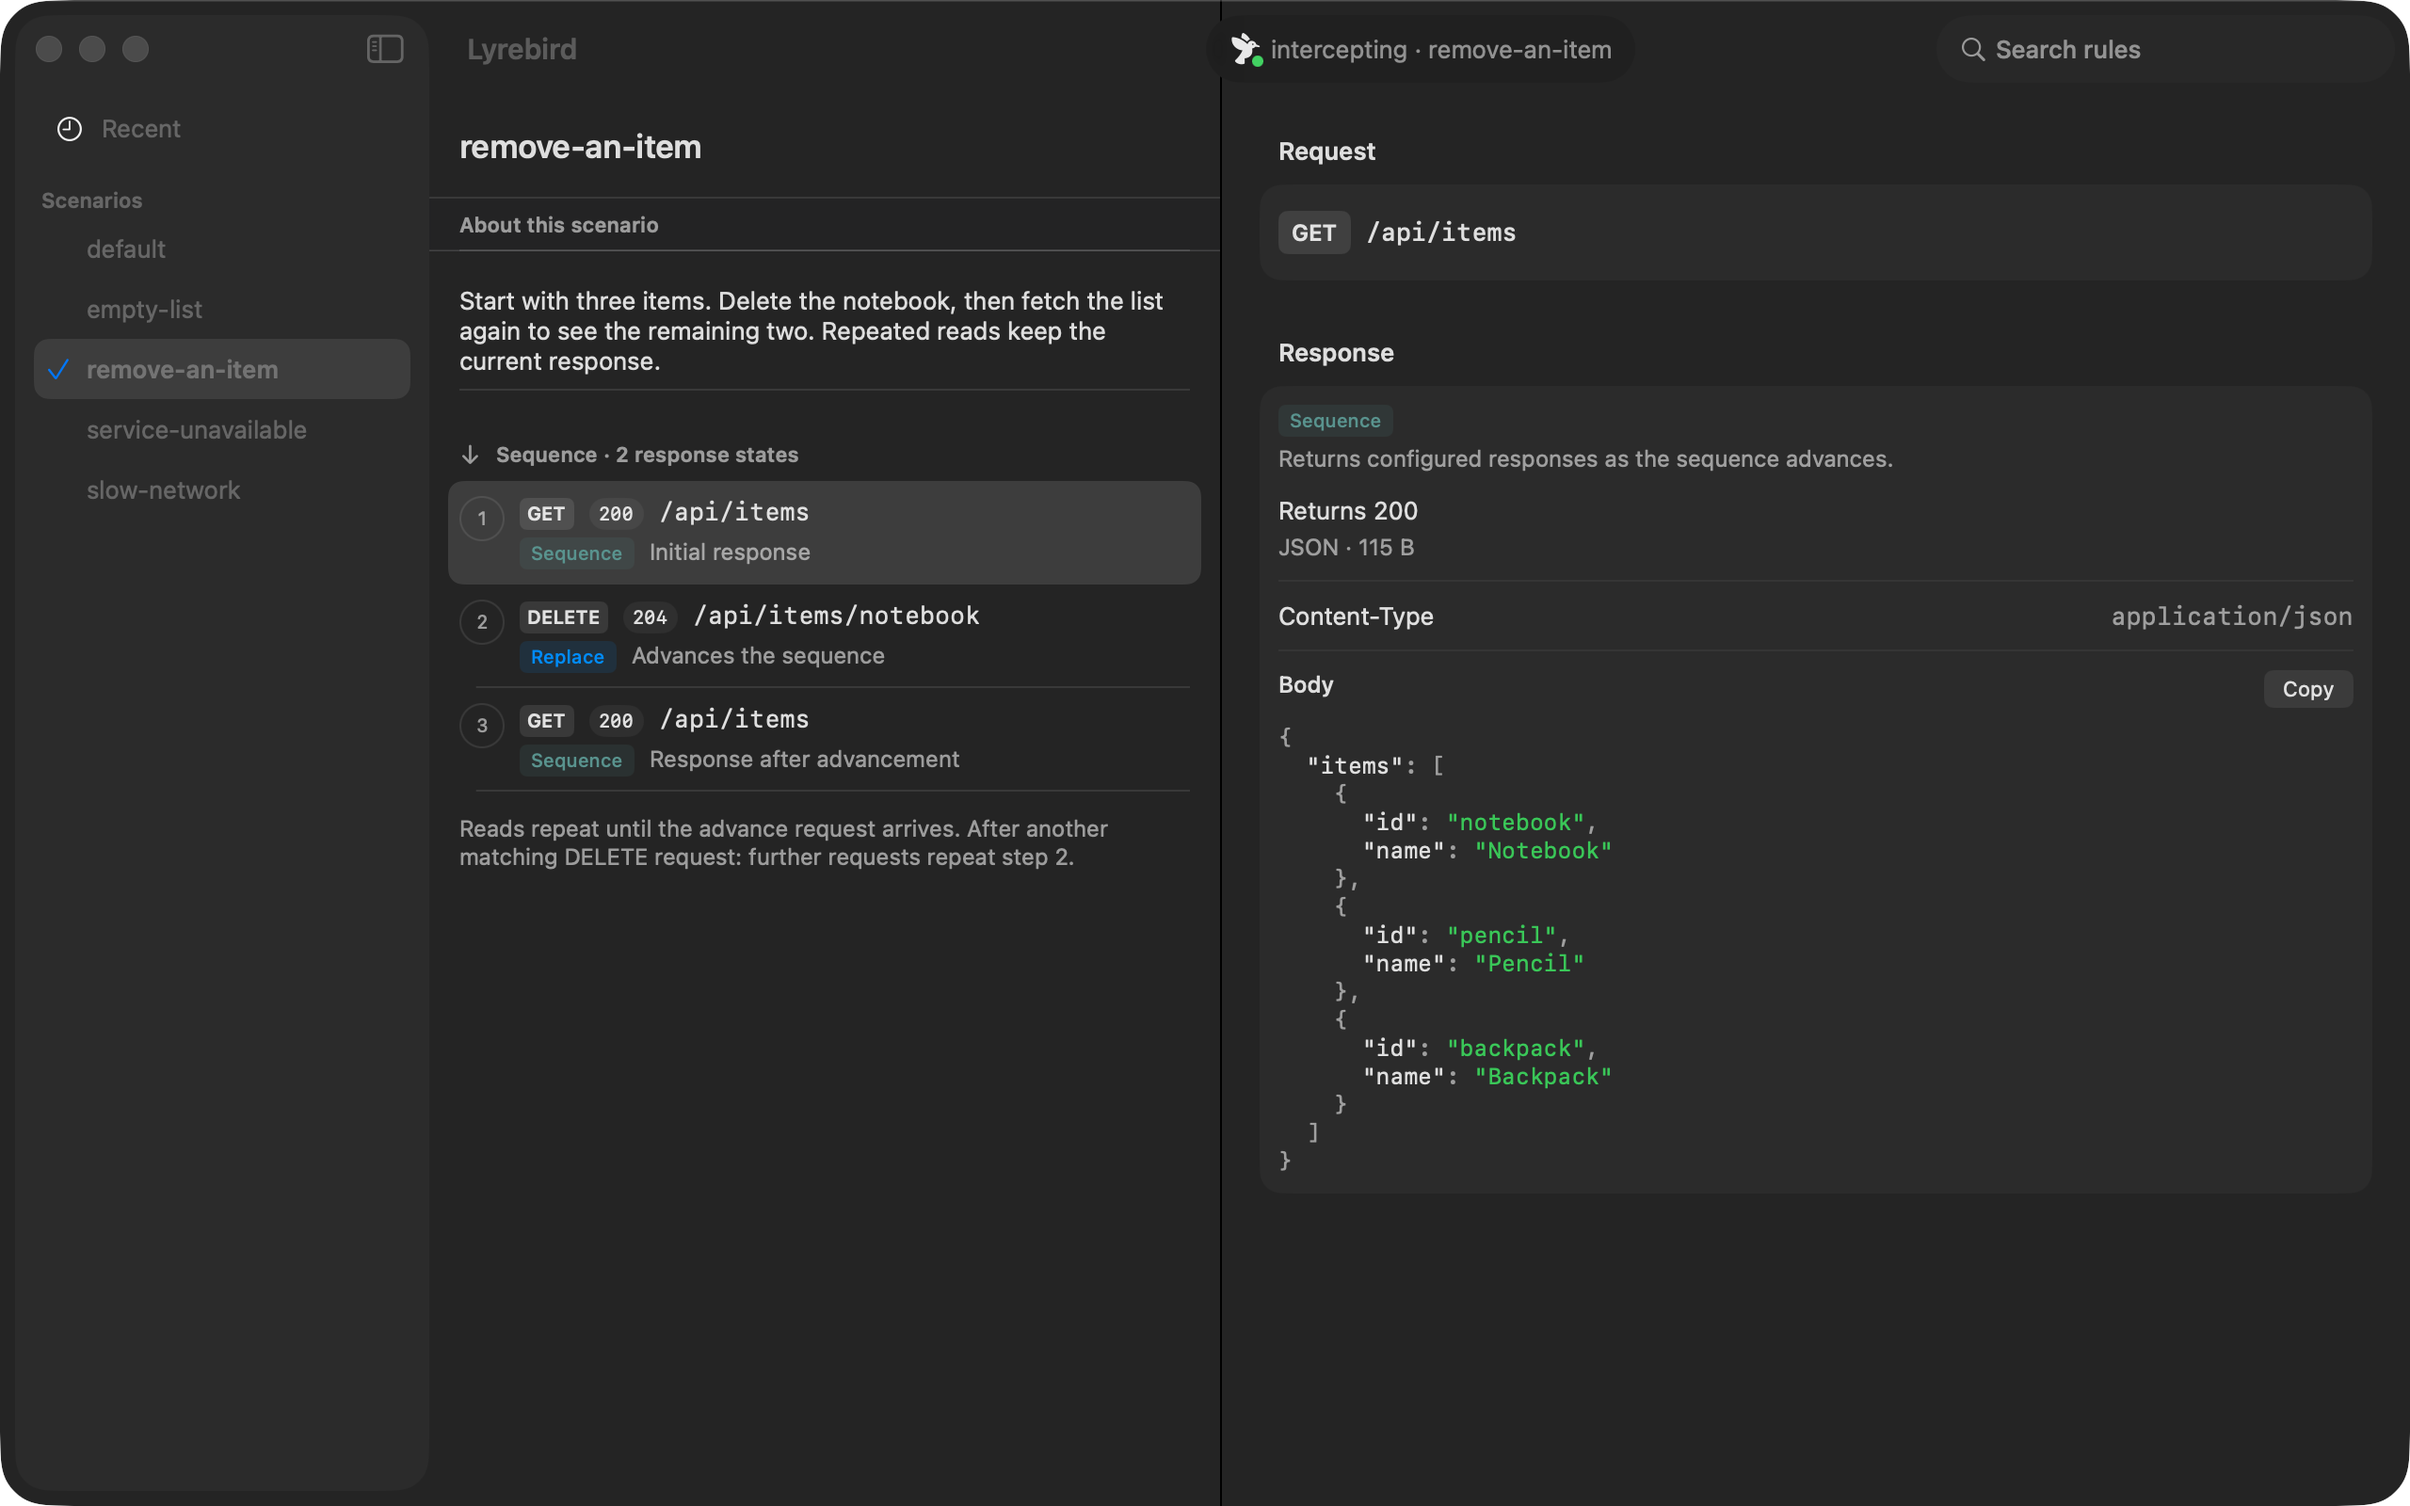
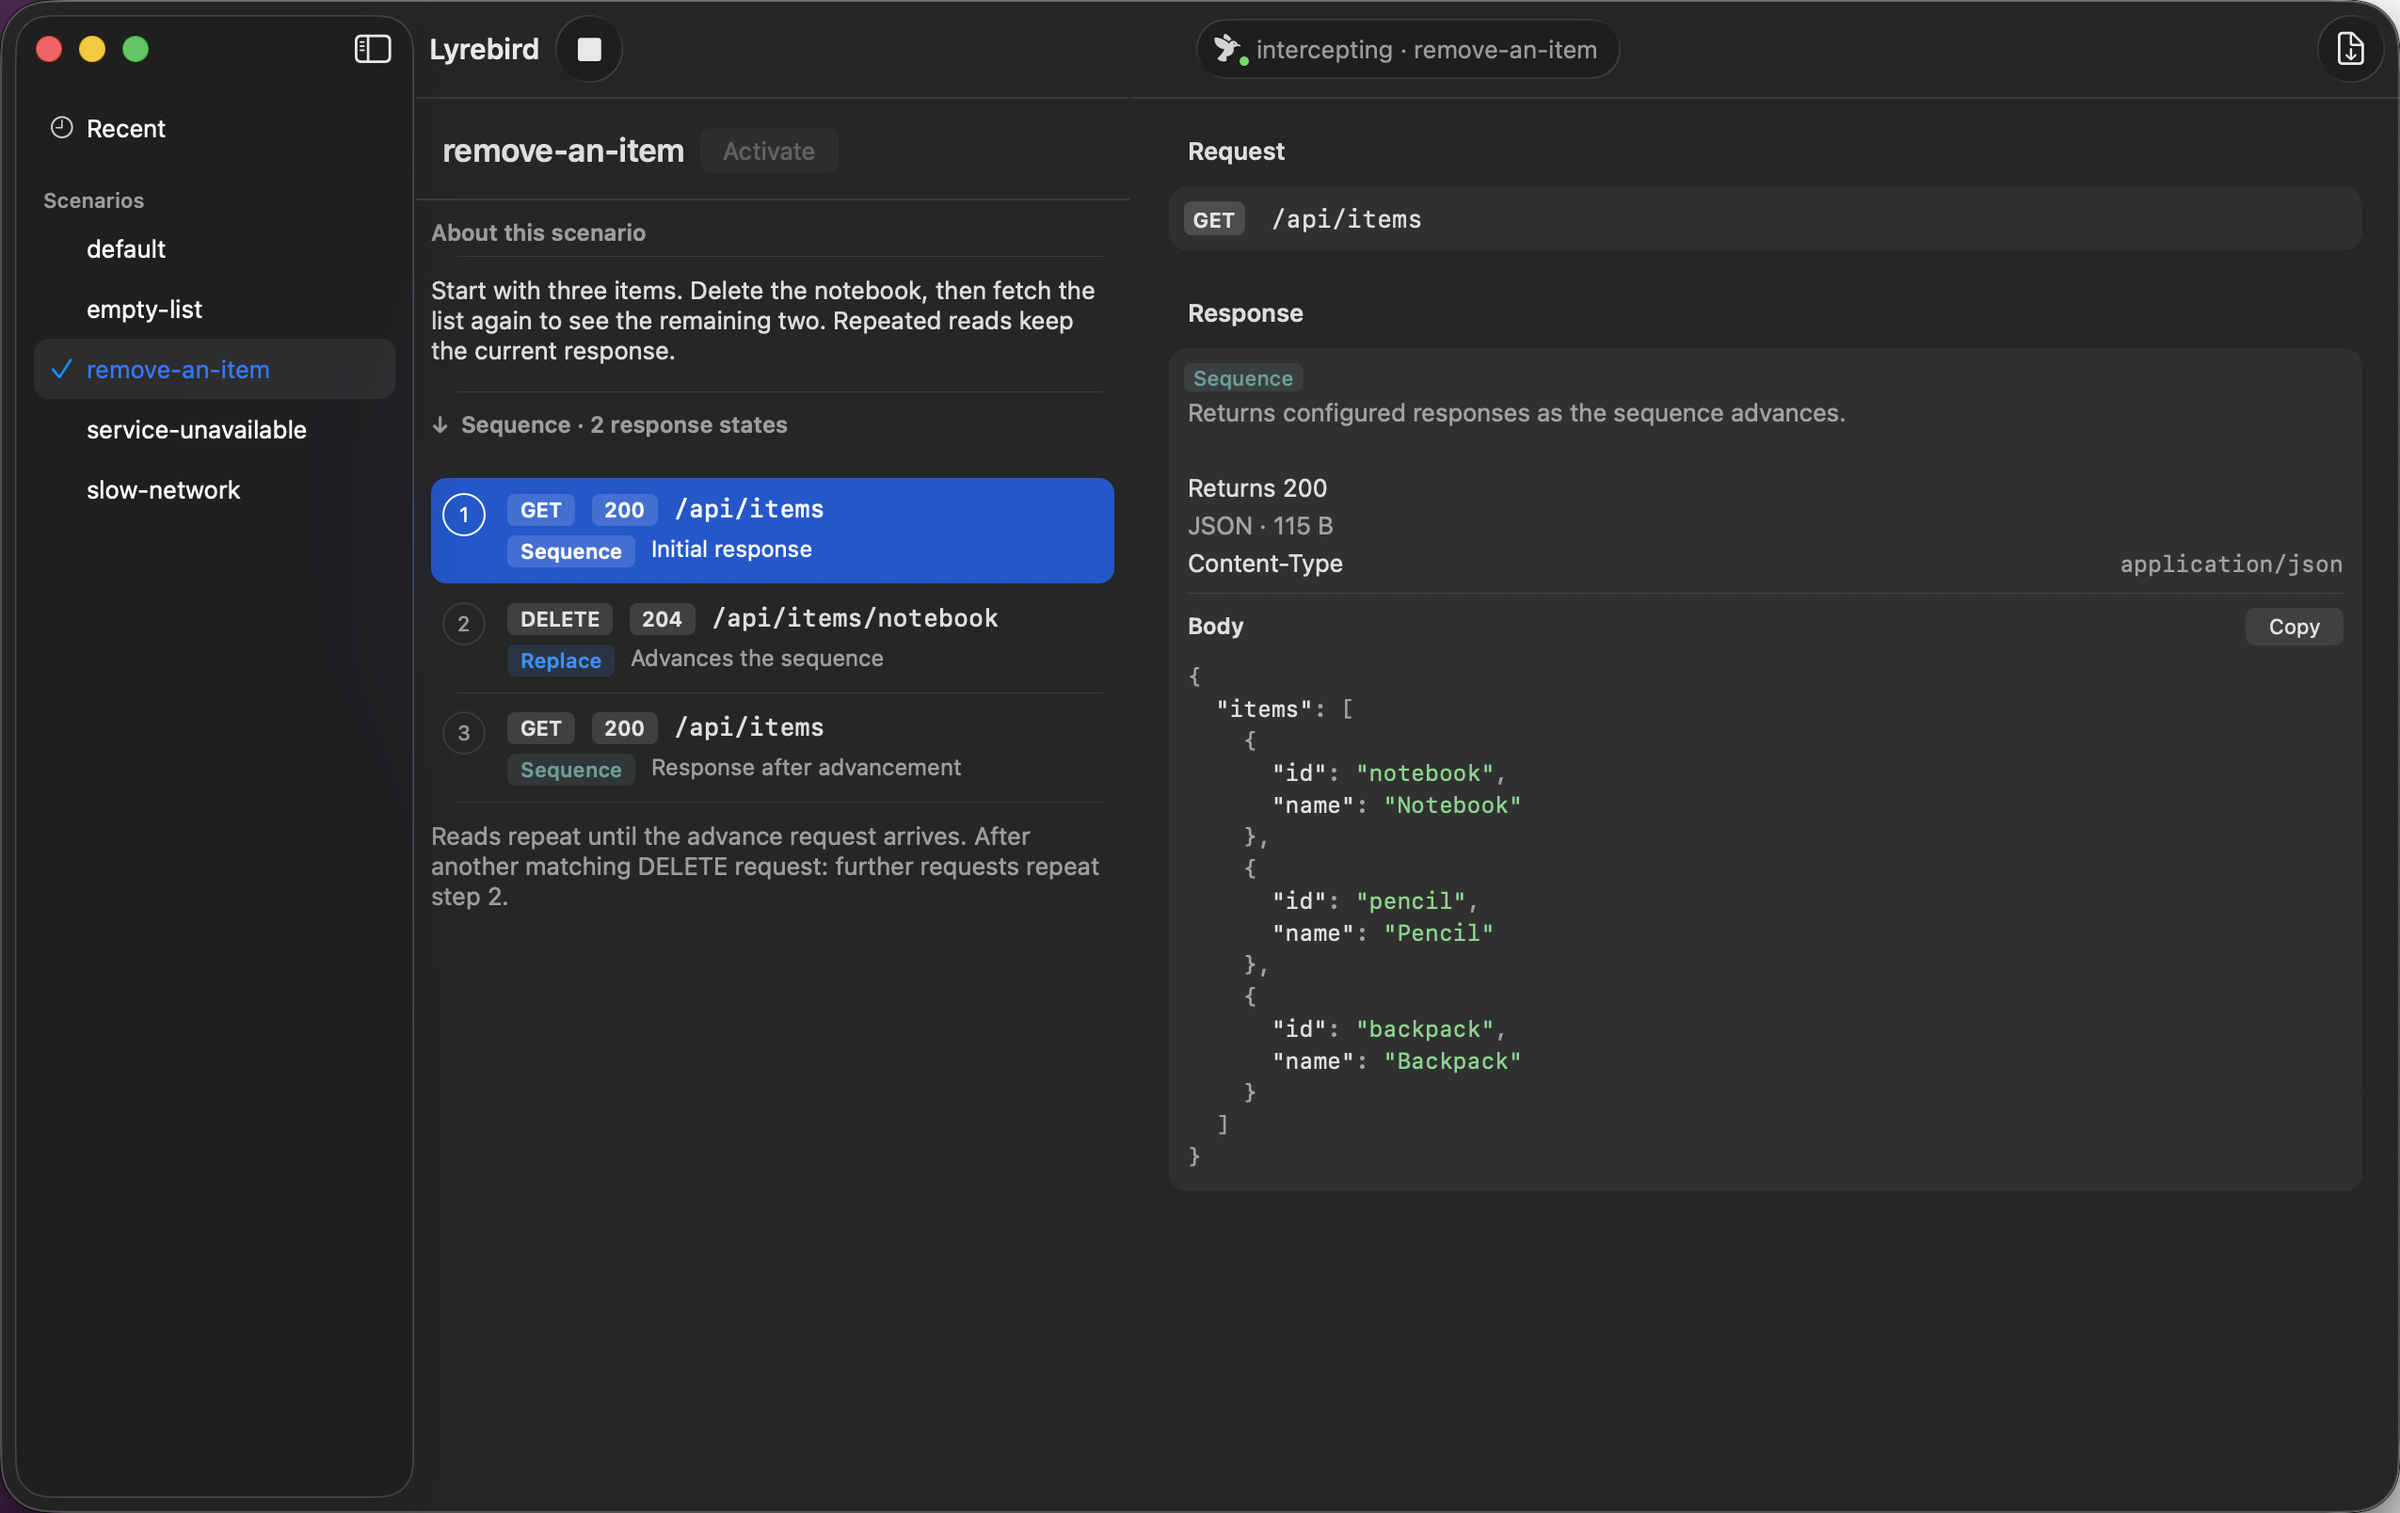
docs: screenshots of the app as it now is
The one in the README was taken before the AppKit rewrite and shows a search
field that no longer exists, next to a toolbar with no interception control and no
Reload. A picture advertising a removed feature is worse than none.

Both are captured by the UI tests rather than by hand, from the synthetic preview
that loads no profile — so they can be retaken by running the suite, and they
cannot leak a real one.

The second is new: the sidebar with scenarios at the root and inside a folder,
which is what `main` gained while the rewrite was away, beside a rule that patches
rather than replaces.

diff --git a/README.md b/README.md
@@ -177,6 +177,12 @@ your iOS app. **Recent** shows the requests recorded during the run and which ru
 *In this synthetic example, GET returns three items. DELETE advances the sequence, and subsequent
 GETs return the remaining two.*
 
+![The browser's sidebar listing scenarios at the root and inside an `orders` folder, beside a rule
+that patches a real response.](docs/images/scenarios.png)
+
+*Scenarios that live in a folder appear under it. A rule can replace a response outright, patch the
+real one, or step through a sequence — the detail pane says which, and what it answers with.*
+
 See the [macOS app guide](menubar/README.md) for installation, menu-bar controls, and configuration.
 
 ## Profiles
